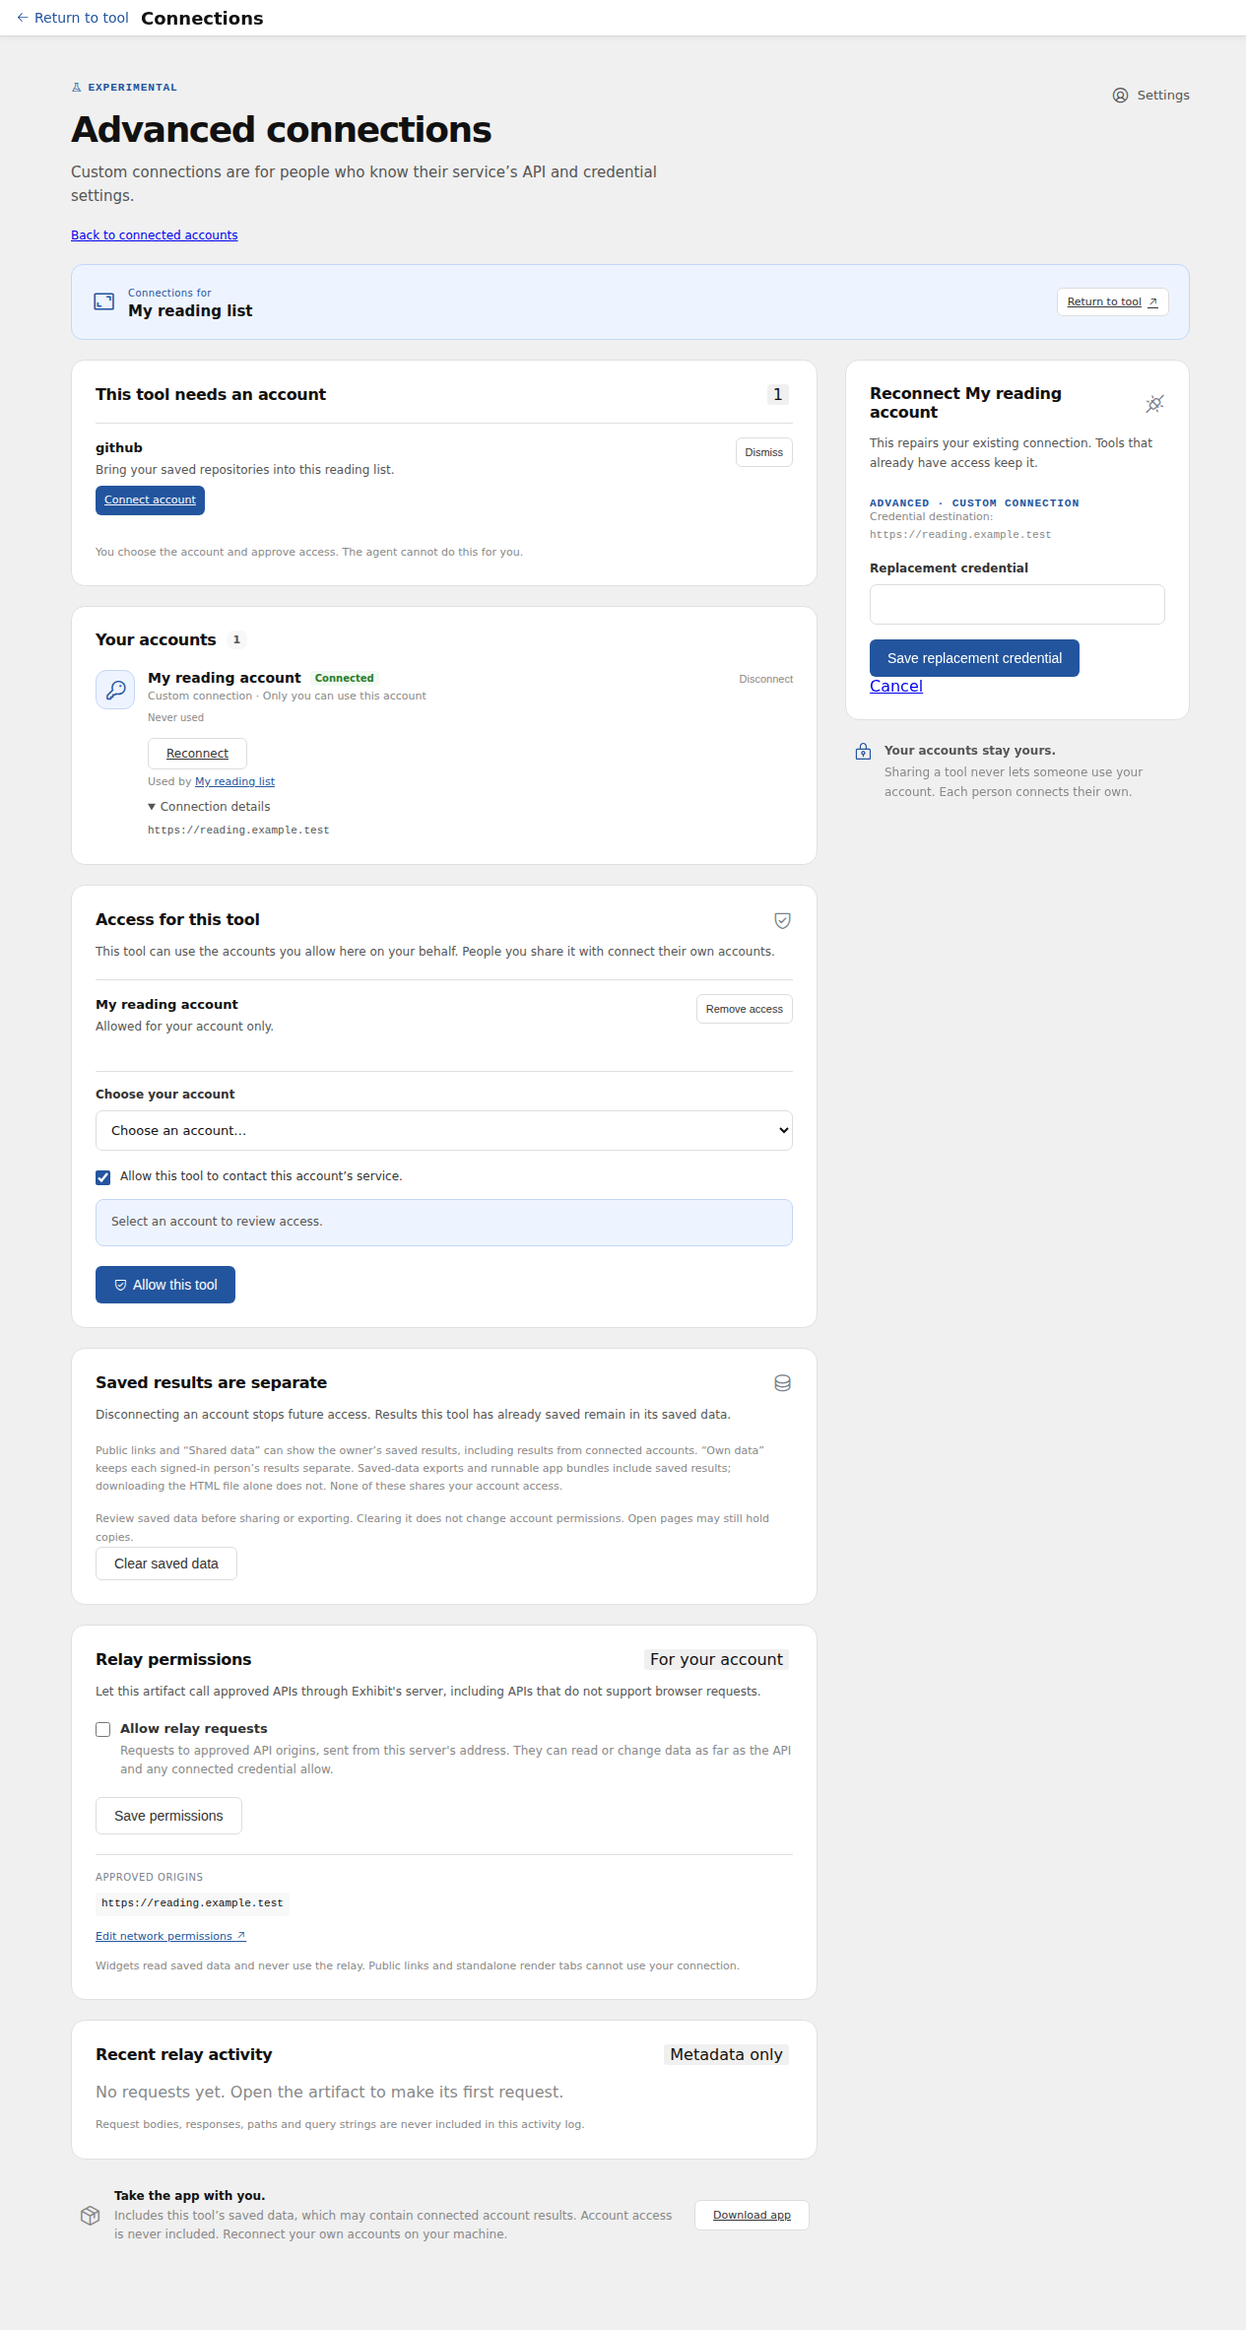
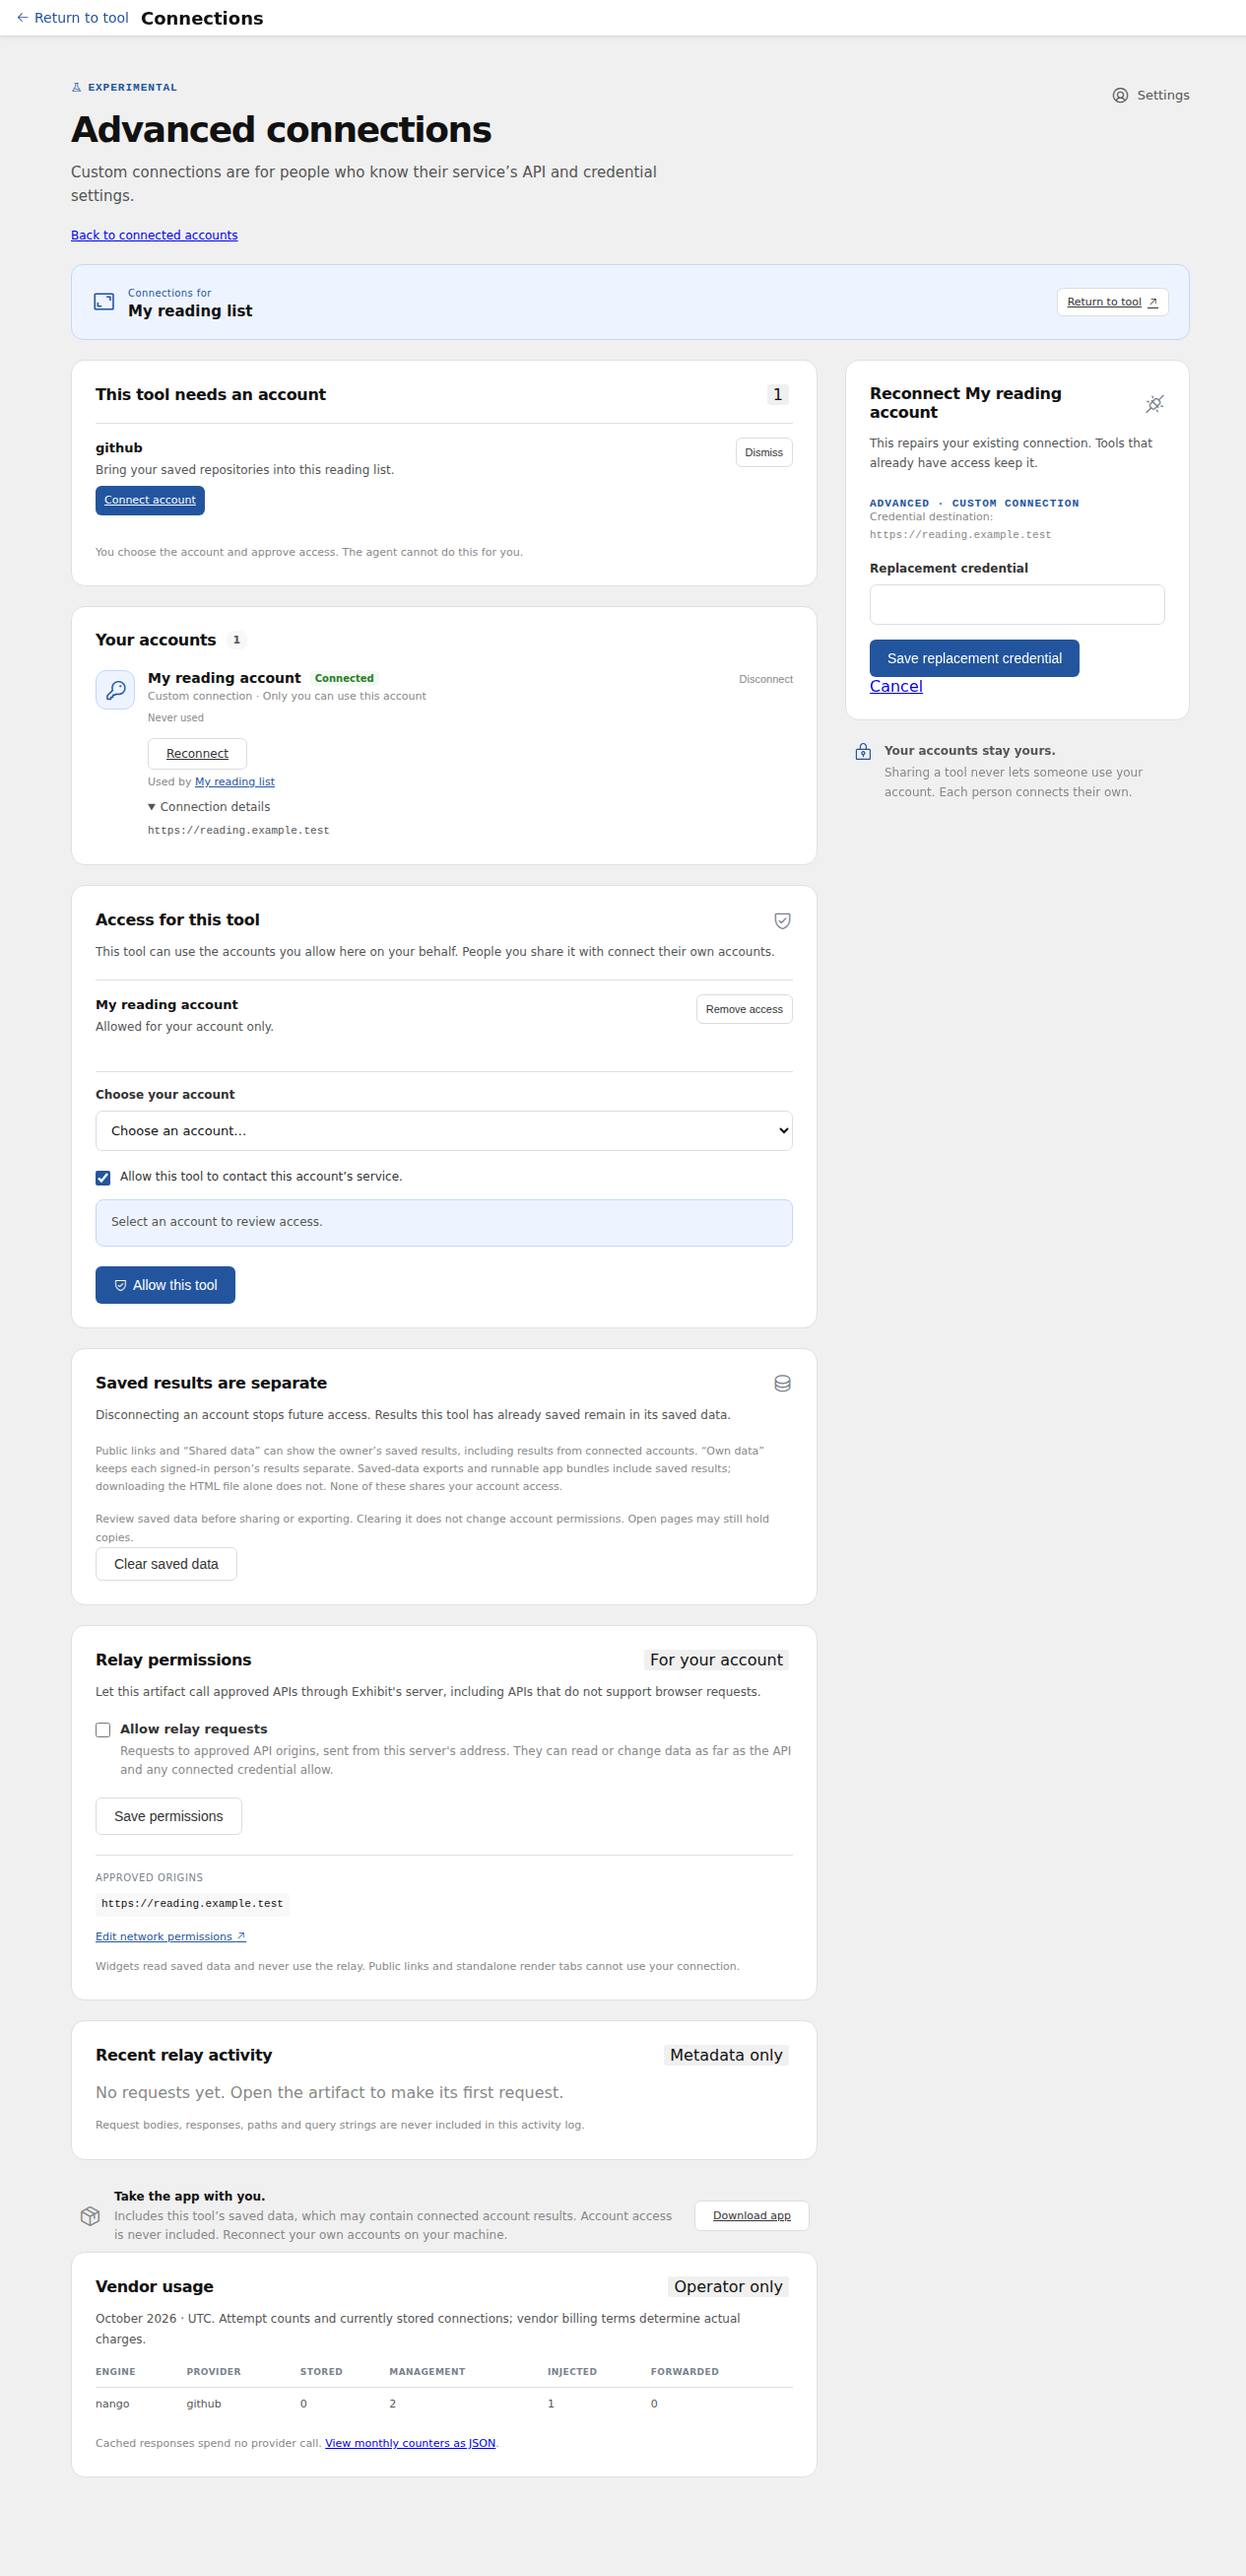
fix(connectors): retain operator usage under advanced settings

diff --git a/internal/api/vendor_usage_test.go b/internal/api/vendor_usage_test.go
@@ -34,15 +34,36 @@ func TestConnectorCostCountersAreOperatorOnlyAndSurviveDisabledEngines(t *testin
 	require.Len(t, report.Usage, 2)
 	assert.Equal(t, int64(1), report.Usage[0].ForwardCalls)
 	assert.Equal(t, int64(1), report.Usage[1].ManagementCalls)
-	// Operator reporting is available even with relay and engines disabled.
+	// Operator reporting lives only under Advanced, including after engines
+	// are disabled. The partial must retain it when htmx refreshes the page.
 	assert.Nil(t, in.ro.cfg.Connections)
-	in.ro.cfg.Relay.Enabled = true
-	w = in.do(t, http.MethodGet, "/connections", in.adminCookie, nil)
-	require.Equal(t, http.StatusOK, w.Code, w.Body.String())
-	assert.Contains(t, w.Body.String(), "operator-provider")
-	assert.Contains(t, w.Body.String(), "Operator only")
-	w = in.do(t, http.MethodGet, "/connections", in.memberCookie, nil)
-	require.Equal(t, http.StatusOK, w.Code, w.Body.String())
-	assert.NotContains(t, w.Body.String(), "operator-provider")
-	assert.NotContains(t, w.Body.String(), "Operator only")
+	for _, enabled := range []bool{true, false} {
+		in.ro.cfg.Relay.Enabled = enabled
+		for _, base := range []string{"/connections", "/partials/connections"} {
+			for _, tc := range []struct {
+				query   string
+				cookie  *http.Cookie
+				visible bool
+			}{
+				{"", in.adminCookie, false},
+				{"", in.memberCookie, false},
+				{"?advanced=1", in.adminCookie, true},
+				{"?advanced=1", in.memberCookie, false},
+			} {
+				w = in.do(t, http.MethodGet, base+tc.query, tc.cookie, nil)
+				require.Equal(t, http.StatusOK, w.Code, w.Body.String())
+				if base == "/connections" {
+					assert.Contains(t, w.Body.String(), `id="connection-workspace"`)
+					assert.Contains(t, w.Body.String(), `hx-trigger="exhibit:connections-changed from:body"`)
+				}
+				for _, text := range []string{"operator-provider", "other-provider", "Operator only", "/api/admin/connector-usage"} {
+					if tc.visible {
+						assert.Contains(t, w.Body.String(), text, "relay=%t, path=%s", enabled, base+tc.query)
+					} else {
+						assert.NotContains(t, w.Body.String(), text, "relay=%t, path=%s", enabled, base+tc.query)
+					}
+				}
+			}
+		}
+	}
 }

diff --git a/internal/api/connector_personal_screenshot_test.go b/internal/api/connector_personal_screenshot_test.go
@@ -15,6 +15,7 @@ import (
 	"github.com/chromedp/chromedp"
 	"github.com/momja/Exhibit/internal/chromium"
 	"github.com/momja/Exhibit/internal/chromium/chromiumtest"
+	"github.com/momja/Exhibit/internal/store"
 	"github.com/stretchr/testify/require"
 )
 
@@ -23,6 +24,11 @@ import (
 // is needed. Run with: go test -tags screenshot ./internal/api -run '^TestCapturePersonalConnections$' -count=1.
 func TestCapturePersonalConnections(t *testing.T) {
 	ro, id, connectionID := newPersonalConnectionsFixture(t)
+	// Existing anonymous counters remain visible to the operator even when a
+	// managed account has been removed. No provider calls are made by the fixture.
+	for _, operation := range []string{"management", "management", "inject"} {
+		require.NoError(t, ro.cfg.Store.(*store.SQLiteStore).RecordVendorCall(t.Context(), "nango", "github", operation, time.Now()))
+	}
 	app := httptest.NewServer(ro)
 	defer app.Close()
 	ro.cfg.AppOrigin = app.URL
